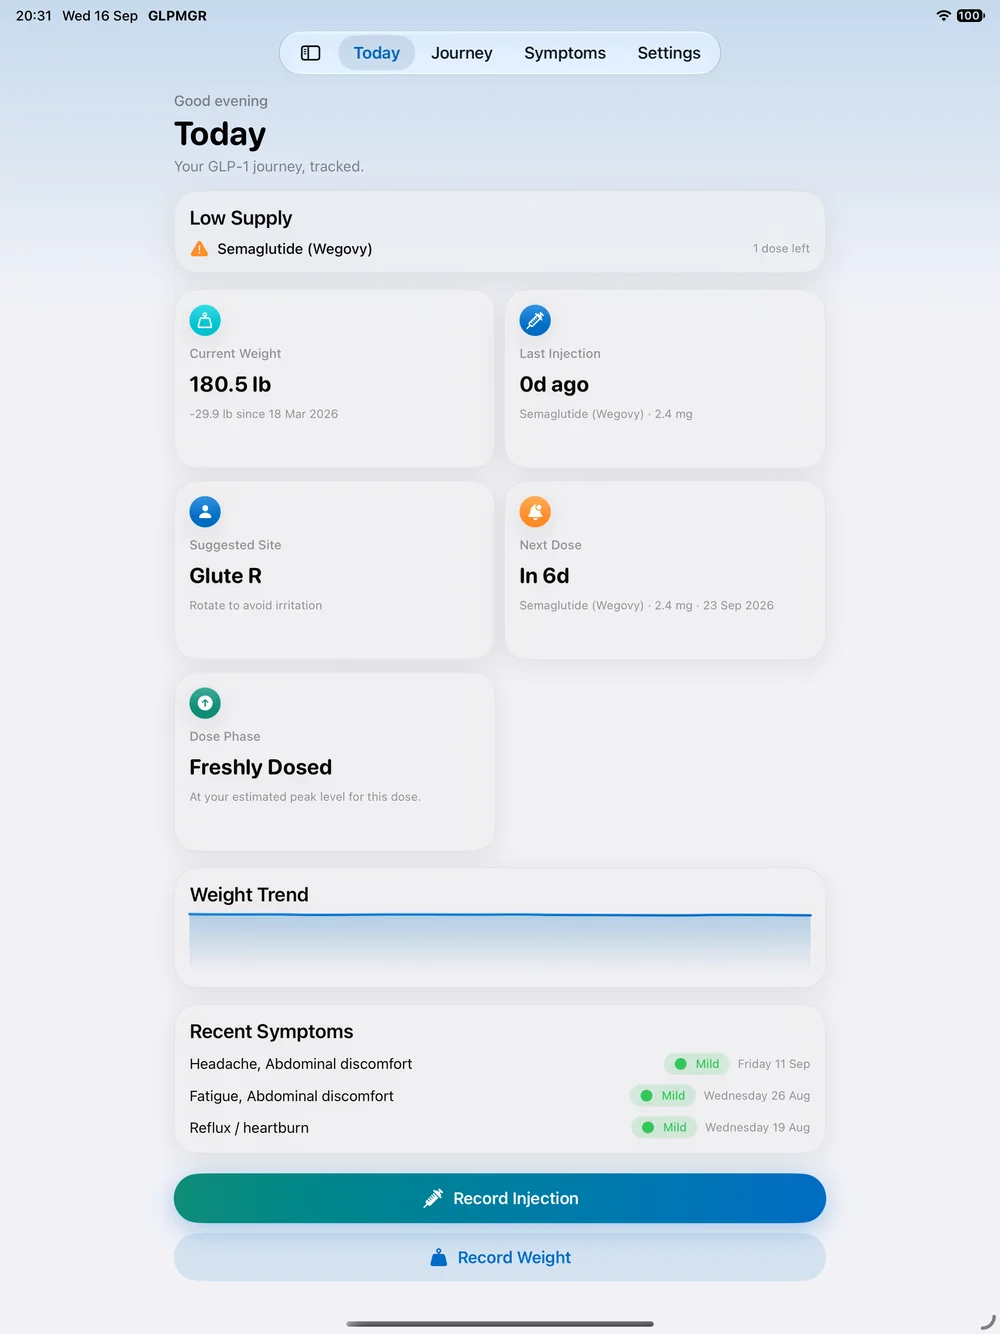
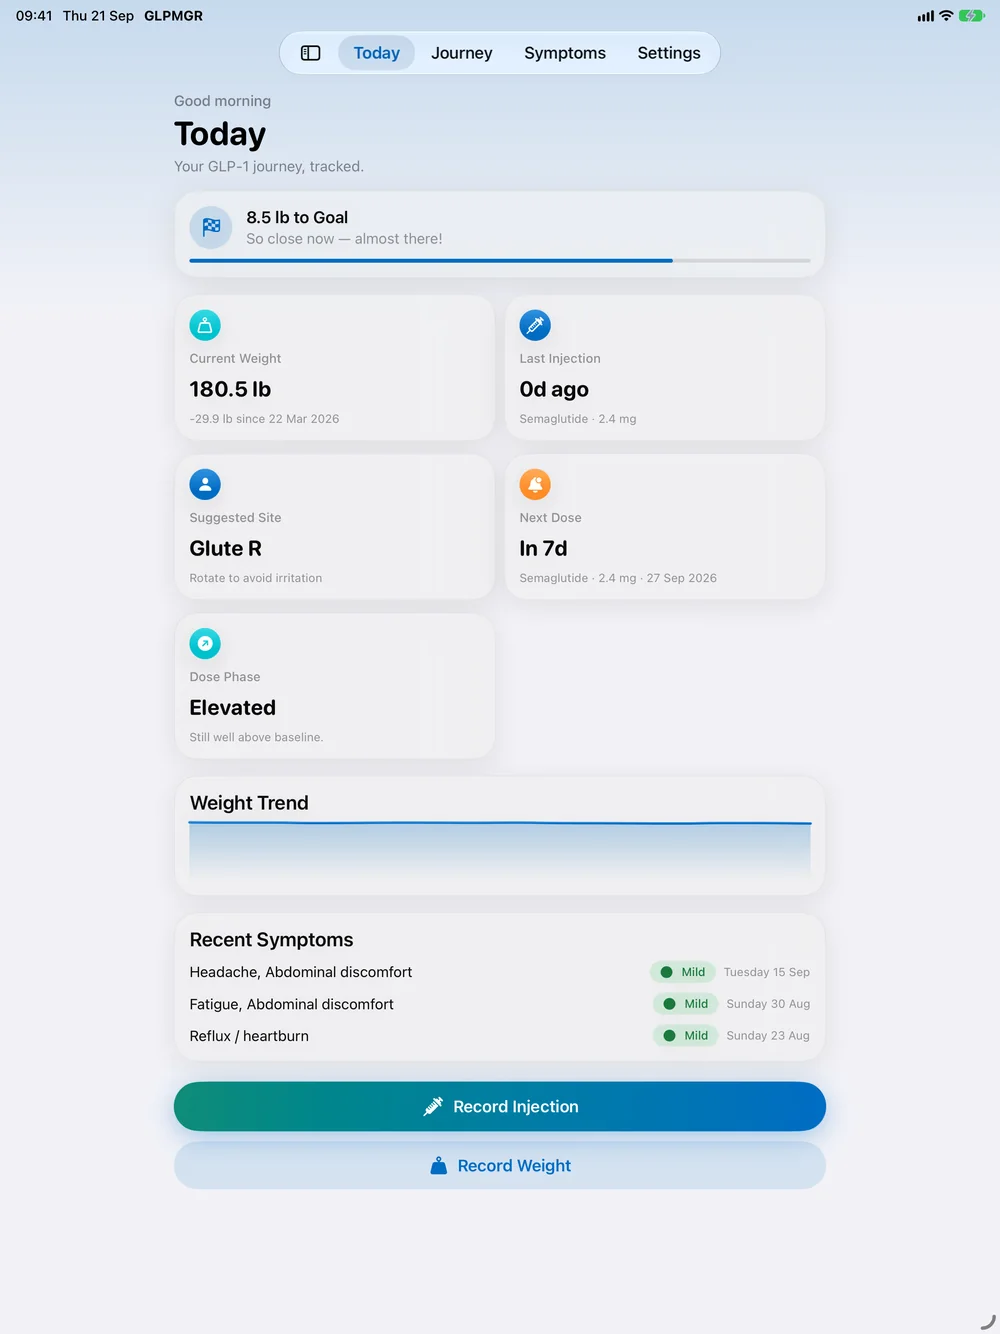
Update the site with generic-name screenshots, light/dark and reminders sections
- Every screenshot is a real capture using the generic medication name (no brand names)
- New "Made for day and night" section with light and dark pairs
- New "Gentle nudges, only when you ask" section: notification banners, lock screen and the
  notification permission prompt
- Gallery refreshed, including the Maintenance card; iPad and Apple Watch images replaced
- Social share image rebuilt from the new Today screen

diff --git a/index.html b/index.html
@@ -61,8 +61,44 @@
   <div class="wrap"><div class="sec-head rv"><span class="eyebrow">Screens</span>
     <h2>Calm, clear and quick to use.</h2>
     <p>A clean interface that follows your iPhone’s light and dark appearance, with large, readable cards and a two-tap logging flow.</p></div></div>
-  <div class="rail-wrap"><div class="rail" tabindex="0" role="group" aria-label="App screenshots"><figure class="slide"><div class="phone "><img src="assets/shots/today.webp" width="600" height="1304" alt="Today: at-a-glance dashboard" loading="lazy" decoding="async"></div><figcaption><b>Today</b><span>Next dose, weight, site and supply at a glance.</span></figcaption></figure><figure class="slide"><div class="phone "><img src="assets/shots/journey.webp" width="600" height="1304" alt="Journey chart of weight and injections" loading="lazy" decoding="async"></div><figcaption><b>Journey</b><span>Weight, doses and estimated medication level over time.</span></figcaption></figure><figure class="slide"><div class="phone "><img src="assets/shots/log.webp" width="600" height="1304" alt="Quick-add menu for injections, weight, symptoms, measurements and photos" loading="lazy" decoding="async"></div><figcaption><b>Quick log</b><span>Injections, weight, symptoms and photos in a couple of taps.</span></figcaption></figure><figure class="slide"><div class="phone "><img src="assets/shots/titration.webp" width="600" height="1304" alt="Dose titration ladder editor" loading="lazy" decoding="async"></div><figcaption><b>Titration</b><span>Build the escalation ladder your clinician set.</span></figcaption></figure><figure class="slide"><div class="phone "><img src="assets/shots/sites.webp" width="600" height="1304" alt="Injection site rotation suggestion" loading="lazy" decoding="async"></div><figcaption><b>Site rotation</b><span>Always know which site is next.</span></figcaption></figure><figure class="slide"><div class="phone "><img src="assets/shots/symptoms.webp" width="600" height="1304" alt="Symptom diary with severity chips" loading="lazy" decoding="async"></div><figcaption><b>Symptoms</b><span>Severity, timing and notes in one diary.</span></figcaption></figure><figure class="slide"><div class="phone "><img src="assets/shots/reminders.webp" width="600" height="1304" alt="Reminders and supply alerts in dark mode" loading="lazy" decoding="async"></div><figcaption><b>Reminders</b><span>Dose reminders and low-supply heads-ups.</span></figcaption></figure><figure class="slide"><div class="phone "><img src="assets/shots/today-dark.webp" width="600" height="1304" alt="Today dashboard in dark mode" loading="lazy" decoding="async"></div><figcaption><b>Dark mode</b><span>Easy on the eyes, day or night.</span></figcaption></figure></div>
+  <div class="rail-wrap"><div class="rail" tabindex="0" role="group" aria-label="App screenshots"><figure class="slide"><div class="phone "><img src="assets/shots/today.webp" width="600" height="1304" alt="Today: at-a-glance dashboard with goal progress" loading="lazy" decoding="async"></div><figcaption><b>Today</b><span>Next dose, weight, site and supply at a glance.</span></figcaption></figure><figure class="slide"><div class="phone "><img src="assets/shots/journey.webp" width="600" height="1304" alt="Journey chart of weight and injections" loading="lazy" decoding="async"></div><figcaption><b>Journey</b><span>Weight, doses and estimated medication level over time.</span></figcaption></figure><figure class="slide"><div class="phone "><img src="assets/shots/log.webp" width="600" height="1304" alt="Quick-add menu for injections, weight, symptoms, measurements and photos" loading="lazy" decoding="async"></div><figcaption><b>Quick log</b><span>Injections, weight, symptoms and photos in a couple of taps.</span></figcaption></figure><figure class="slide"><div class="phone "><img src="assets/shots/titration.webp" width="600" height="1304" alt="Dose titration ladder in the schedule editor" loading="lazy" decoding="async"></div><figcaption><b>Titration</b><span>Build the escalation ladder your clinician set.</span></figcaption></figure><figure class="slide"><div class="phone "><img src="assets/shots/sites.webp" width="600" height="1304" alt="Record Injection form with a suggested injection site" loading="lazy" decoding="async"></div><figcaption><b>Site rotation</b><span>Always know which site is next.</span></figcaption></figure><figure class="slide"><div class="phone "><img src="assets/shots/symptoms.webp" width="600" height="1304" alt="Symptom diary with severity chips" loading="lazy" decoding="async"></div><figcaption><b>Symptoms</b><span>Severity, timing and notes in one diary.</span></figcaption></figure><figure class="slide"><div class="phone "><img src="assets/shots/maintenance.webp" width="600" height="1304" alt="Maintenance card showing your recent average next to your chosen range" loading="lazy" decoding="async"></div><figcaption><b>Maintenance</b><span>Your recent average next to a range you choose.</span></figcaption></figure><figure class="slide"><div class="phone "><img src="assets/shots/settings-dark.webp" width="600" height="1304" alt="Settings in dark mode with Apple Health and iCloud switched off" loading="lazy" decoding="async"></div><figcaption><b>Settings</b><span>Apple Health and iCloud sync are opt-in.</span></figcaption></figure></div>
   <div class="rail-btns"><button id="rail-prev" aria-label="Previous screenshots"><svg viewBox="0 0 24 24" aria-hidden="true"><path d="m15 18-6-6 6-6"/></svg></button><button id="rail-next" aria-label="Next screenshots"><svg viewBox="0 0 24 24" aria-hidden="true"><path d="m9 18 6-6-6-6"/></svg></button></div></div>
+</div></section>
+
+<section id="appearance"><div class="wrap">
+  <div class="sec-head center rv" style="text-align:center"><span class="eyebrow">Light &amp; dark</span>
+    <h2>Made for day and night.</h2>
+    <p>GLPMGR follows your iPhone’s appearance, or you can choose Light or Dark in Settings. Every screen looks right either way.</p></div>
+  <div class="pairs rv">
+    <figure class="pair"><span class="mode">Light</span><span class="mode">Dark</span>
+      <div class="phone "><img src="assets/shots/journey.webp" width="600" height="1304" alt="Journey screen in light mode" loading="lazy" decoding="async"></div><div class="phone "><img src="assets/shots/journey-dark.webp" width="600" height="1304" alt="Journey screen in dark mode" loading="lazy" decoding="async"></div>
+      <figcaption>Journey</figcaption></figure>
+    <figure class="pair"><span class="mode">Light</span><span class="mode">Dark</span>
+      <div class="phone "><img src="assets/shots/symptoms.webp" width="600" height="1304" alt="Symptoms screen in light mode" loading="lazy" decoding="async"></div><div class="phone "><img src="assets/shots/symptoms-dark.webp" width="600" height="1304" alt="Symptoms screen in dark mode" loading="lazy" decoding="async"></div>
+      <figcaption>Symptoms</figcaption></figure>
+  </div>
+</div></section>
+
+<section id="reminders"><div class="wrap notif">
+  <div class="rv">
+    <span class="eyebrow">Reminders</span>
+    <h2 style="font-size:clamp(2rem,4vw,2.9rem);margin:14px 0 16px">Gentle nudges, only when you ask.</h2>
+    <p class="muted" style="color:var(--ink-2)">GLPMGR asks before it sends a single notification, and everything is scheduled on your device using iOS’s own local notifications. Nothing is sent from a server.</p>
+    <ul class="checklist">
+      <li><svg viewBox="0 0 24 24" aria-hidden="true"><path d="M20 6 9 17l-5-5"/></svg><span><b>Dose reminders</b> when your next dose is due.</span></li>
+      <li><svg viewBox="0 0 24 24" aria-hidden="true"><path d="M20 6 9 17l-5-5"/></svg><span><b>Low-supply alerts</b> when your pen, vial or prescription is running low.</span></li>
+      <li><svg viewBox="0 0 24 24" aria-hidden="true"><path d="M20 6 9 17l-5-5"/></svg><span><b>An optional weekly weigh-in reminder</b> at the day and time you pick. It never mentions your weight.</span></li>
+    </ul>
+    <div class="banners">
+      <img src="assets/shots/banner-dose.webp" width="900" height="136" alt="Notification banner reading Dose due: Semaglutide, 2.4 mg is due now" loading="lazy">
+      <img src="assets/shots/banner-low.webp" width="900" height="136" alt="Notification banner reading Low supply: Semaglutide, 1 dose left, time to reorder" loading="lazy">
+      <img src="assets/shots/banner-weigh.webp" width="900" height="136" alt="Notification banner reading Weekly weigh-in, a good moment to log your weight in GLPMGR" loading="lazy">
+    </div>
+  </div>
+  <div class="notif-phones rv">
+    <div class="phone "><img src="assets/shots/lock.webp" width="600" height="1304" alt="iPhone lock screen showing a GLPMGR dose due and a low supply notification" loading="lazy" decoding="async"></div>
+    <div class="phone "><img src="assets/shots/permission.webp" width="600" height="1304" alt="The iOS prompt asking whether GLPMGR may send notifications" loading="lazy" decoding="async"></div>
+  </div>
 </div></section>
 
 <section id="privacy"><div class="wrap">

diff --git a/assets/site.css b/assets/site.css
@@ -249,3 +249,16 @@ table.datatable td.num-col{font-variant-numeric:tabular-nums;white-space:nowrap}
 
 .nb{white-space:nowrap}
 @media (max-width:900px){.devices .art .watch{right:0}.devices .art .watch.w2{left:0}}
+
+/* ---------- light & dark pairs, reminders ---------- */
+.pairs{display:grid;grid-template-columns:repeat(2,minmax(0,1fr));gap:48px;max-width:1000px;margin:0 auto}
+.pair{margin:0;display:grid;grid-template-columns:1fr 1fr;gap:10px 22px;align-items:start}
+.pair .mode{font:700 .78rem/1 var(--font-display);letter-spacing:.09em;text-transform:uppercase;color:var(--ink-3);text-align:center}
+.pair figcaption{grid-column:1/-1;text-align:center;font:800 1.08rem var(--font-display);margin-top:10px}
+.notif{display:grid;grid-template-columns:1.05fr .95fr;gap:56px;align-items:center}
+.notif-phones{display:flex;gap:24px;justify-content:center;align-items:flex-start}
+.notif-phones .phone{width:min(250px,46%)}
+.notif-phones .phone:nth-child(2){margin-top:56px}
+.banners{display:grid;gap:12px;margin-top:30px}
+.banners img{display:block;width:100%;height:auto;filter:drop-shadow(0 10px 18px rgba(0,60,110,.28))}
+@media (max-width:900px){.pairs{grid-template-columns:1fr;gap:56px}.notif{grid-template-columns:1fr}.notif-phones{margin-top:8px}}
